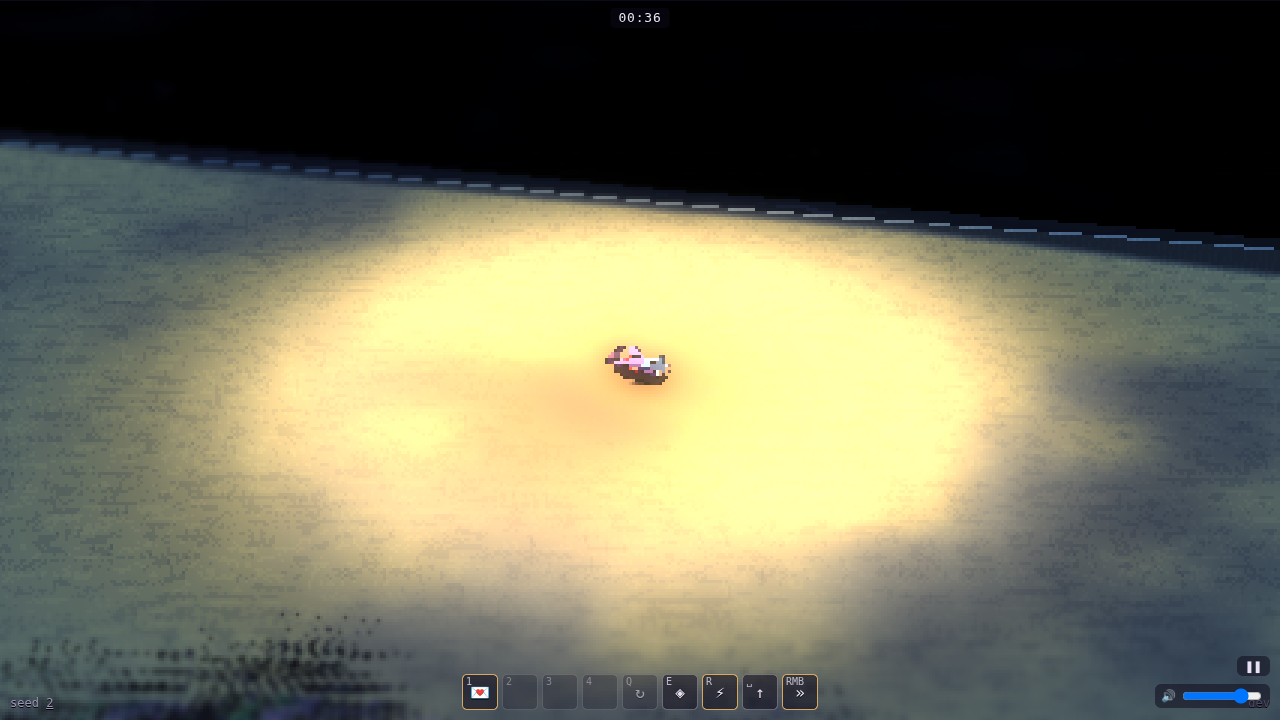
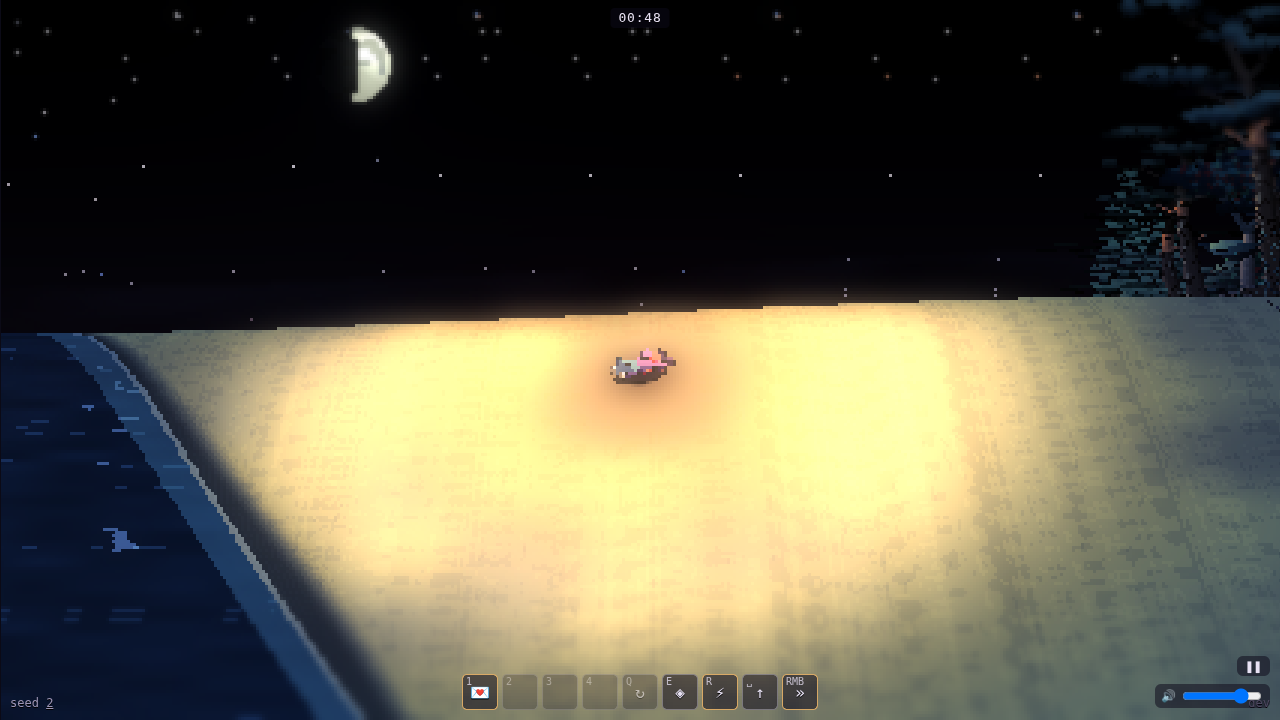
Music plays on through hitches (no more cutting in and out) and a lighter, moonlit sea (Ed's playtest)
The engine re-anchored on every frame past MAX_STEP, leaving a silence at each hitch; it now schedules
0.6 s ahead, eases back into step at most 5% off tempo, holds a sixteenth a long stall made late, and
re-anchors only on a real jump. The damage drop-outs are gone. tools/music-lab/flight.cjs measures it
with real main-thread stalls: 4.02 s unscheduled before, only the 1.2 s stalls' own excess after.

Claude-Session: https://claude.ai/code/session_01VpVux54r6d7xX8jYKXai88

diff --git a/tools/music-lab/dist/witch-music-lab.html b/tools/music-lab/dist/witch-music-lab.html
@@ -776,7 +776,7 @@ label.check input { accent-color: var(--accent); }
     ee: [[270, 1], [2290, 0.45], [3010, 0.35]]
   };
   var METAL_RATIOS = [2, 3, 4.16, 5.43, 6.79, 8.21];
-  var MusicEngine = class {
+  var MusicEngine = class _MusicEngine {
     constructor(ctx2, dest, style2, seed2 = 0, circleDest = dest) {
       this.ctx = ctx2;
       this.style = style2;
@@ -888,6 +888,13 @@ label.check input { accent-color: var(--accent); }
     g0 = NaN;
     a0 = 0;
     rate = 1;
+    /** Continuity, for the checks (tools/music-lab/flight.cjs): times the timeline was re-anchored, sixteenths dropped
+     *  for being late, and audio seconds left with nothing scheduled between one sixteenth and the next. */
+    stats = { resyncs: 0, late: 0, gap: 0 };
+    heardTo = -1;
+    lastNow = -1;
+    /** How much faster or slower than the game the music may run while easing back into step (a share). */
+    static slew = 0.05;
     /** Notes' pitch now (the tape slowing with the music: 1 at full speed). */
     pitch = 1;
     /** The note being played's pitch (the circle's layer never slowed). */
@@ -915,11 +922,12 @@ label.check input { accent-color: var(--accent); }
     }
     /** Each frame: schedule what's due in the next `ahead` seconds of audio time, at game time
      *  `gameTime` (seconds) on the beat clock `clock`. `playing` false: nothing new is scheduled. */
-    update(cue2, gameTime, clock2, playing2, ahead = 0.3, rate = 1, pitch = 1) {
+    update(cue2, gameTime, clock2, playing2, ahead = 0.6, rate = 1, pitch = 1) {
       const now = this.ctx.currentTime, stepNow = beatAt(clock2, gameTime) * 4;
       if (!playing2) {
         this.nextStep = -1;
         this.cNext = -1;
+        this.heardTo = -1;
         return;
       }
       rate = Math.max(0.01, rate);
@@ -931,23 +939,39 @@ label.check input { accent-color: var(--accent); }
         this.rate = rate;
       }
       this.pitch = pitch;
-      const err = gameTime - (this.g0 + (now - this.a0) * rate);
-      if (!(Math.abs(err) < 0.06 * rate)) {
+      const dtA = this.lastNow < 0 ? 0 : Math.max(0, now - this.lastNow);
+      this.lastNow = now;
+      const err = gameTime - (this.g0 + (now - this.a0) * rate), slew = _MusicEngine.slew * Math.min(dtA, 0.05) * rate;
+      if (!Number.isFinite(err) || err > 0.25 * rate) {
+        if (Number.isFinite(this.g0)) this.stats.resyncs++;
         this.g0 = gameTime;
         this.a0 = now;
         this.nextStep = -1;
-      } else this.g0 += err * 0.05;
+      } else if (err < -6 * rate) {
+        this.g0 += err + 6 * rate;
+        this.stats.resyncs++;
+      } else this.g0 += Math.max(-slew, Math.min(slew, err * 0.05));
       const audioAt = (g) => this.a0 + (g - this.g0) / rate;
       if (this.nextStep < 0 || this.nextStep < stepNow - 1 || this.nextStep > stepNow + 64) {
         this.nextStep = Math.ceil(stepNow);
         if (this.lastStep < stepNow + 64 && this.lastStep >= stepNow - 64) this.nextStep = Math.max(this.nextStep, this.lastStep + 1);
       }
       this.delay.delayTime.setTargetAtTime(Math.min(4, this.style.mix.delayBeats * 60 / bpmAt(clock2, gameTime) / rate), now, 0.05);
+      if (this.heardTo >= 0 && this.nextStep >= 0) {
+        const t = audioAt(timeAt(clock2, this.nextStep / 4));
+        if (t < now) {
+          this.a0 += now + 5e-3 - t;
+          this.stats.late++;
+        }
+      }
       for (; ; ) {
-        const g = timeAt(clock2, this.nextStep / 4), t = audioAt(g);
+        const g = timeAt(clock2, this.nextStep / 4), t = this.a0 + (g - this.g0) / rate;
         if (t >= now + ahead) break;
         if (t >= now) {
-          this.step(cue2, this.nextStep, t, 60 / bpmAt(clock2, g) / 4 / rate);
+          const sps2 = 60 / bpmAt(clock2, g) / 4 / rate;
+          if (this.heardTo >= 0 && t > this.heardTo + 0.02) this.stats.gap += t - this.heardTo;
+          this.heardTo = t + sps2;
+          this.step(cue2, this.nextStep, t, sps2);
           this.lastStep = this.nextStep;
         }
         this.nextStep++;
@@ -1408,7 +1432,6 @@ label.check input { accent-color: var(--accent); }
     wet;
     bus;
     noise;
-    dropUntil = 0;
     duckUntil = 0;
     duckBy = 0;
     /** A sleeping legend's clearing (Ed, 2026-10-06): its layer's gain, and how far in she is (eased). */
@@ -1442,15 +1465,18 @@ label.check input { accent-color: var(--accent); }
       const layer = this.circleAt > 0 && this.circleSpecies ? { species: this.circleSpecies, level: 1 } : void 0;
       cue2 = { ...cue2, circle: layer };
       this.circleGain.gain.setTargetAtTime(on ? this.circleAt * this.volume * (M?.circle.level ?? 1) : 0, now, k);
-      if (mix.distort > 0.05 && now > this.dropUntil && Math.random() < mix.distort * 0.01) this.dropUntil = now + 0.08 + Math.random() * 0.3 * mix.distort;
-      const vol = (on && now >= this.dropUntil ? mix.volume * this.volume : 0) * (now < this.duckUntil ? 1 - this.duckBy : 1) * (1 - smooth01((stop - 0.7) / 0.3));
+      const vol = (on ? mix.volume * this.volume : 0) * (now < this.duckUntil ? 1 - this.duckBy : 1) * (1 - smooth01((stop - 0.7) / 0.3));
       this.master.gain.setTargetAtTime(vol, now, k);
       this.filter.frequency.setTargetAtTime(mix.cutoff, now, k);
       this.wet.gain.setTargetAtTime(mix.distort * 0.8, now, k);
       this.dry.gain.setTargetAtTime(1 - mix.distort * 0.6, now, k);
       this.wobble.gain.setTargetAtTime(1 - mix.distort * 0.45 * (0.5 + 0.5 * Math.sin(now * 7.3 + Math.sin(now * 2.1) * 2)), now, 0.02);
       if (on && mix.distort > 0.05 && Math.random() < mix.distort * 0.15) this.crackle(now + Math.random() * 0.05, mix.distort);
-      this.engine?.update(cue2, gameTime, clock2, on, 0.3, rate, stop > 0 ? Math.max(M?.over?.floor ?? 0.15, rate) : tapePitch(rate, M?.slow));
+      this.engine?.update(cue2, gameTime, clock2, on, 0.6, rate, stop > 0 ? Math.max(M?.over?.floor ?? 0.15, rate) : tapePitch(rate, M?.slow));
+    }
+    /** The engine's continuity (tools/music-lab/flight.cjs). */
+    get stats() {
+      return this.engine?.stats ?? { resyncs: 0, late: 0, gap: 0 };
     }
     /** What reaches the speakers (the audio watchdog taps it). */
     get output() {
@@ -1499,8 +1525,8 @@ label.check input { accent-color: var(--accent); }
     mapAreas: 14,
     _mapShape: `The map's shape (Ed, 2026-10-06: "The map as a whole should be circular rather than square, with a buffer zone with no runestones around the edge"). shape circle: the playable areas are those whose centres lie within radius areas of home's (7.9: about 196, as many as the old 14 x 14), and only they get runestones, soundsystems, legends, relics and creatures and wake in waves; past them a buffer ring buffer areas deep (1 to 1.5), forest she can fly over where nothing happens; her flight's edge is a circle, soft over its last push metres (her speed outward easing to nothing at the edge, and a drift of up to drift m/s taking her back in); the forest goes on edge areas past it, into the fog. coast (Ed, 2026-10-06: "The island shouldn't be a totally perfect circle; make the coast slightly irregular"): every edge round home (the playable areas', the buffer's, her flight's) wobbles by the same seeded coast, up to amp of its radius in or out (0 for a perfect circle): harmonics gentle bays and headlands (from two round the island up), plus detail (a share) of finer wobble. shape square: mapAreas x mapAreas as before (?shape=square to compare). ?mapAreas=<n> on the circular map sets the radius for about n x n areas.`,
     map: { shape: "circle", radius: 7.9, buffer: 1.25, push: 80, drift: 6, edge: 2, coast: { amp: 0.08, harmonics: 3, detail: 0.3 } },
-    _beach: `The beach (Ed, 2026-10-06: "Outside of the circular map, there is the sea. A beach surrounds the island, and the calm dark water reflects the sky. You can hear the sound of the waves. If you try and fly past the beach, you land and stargaze (the party lying down pose). Other witches can be found on the beach occasionally; if you land near them, you chat, hold hands, and hug. Try and do this in a way that doesn't cost performance - most games won't ever go to the beach, it's just an Easter egg for adventurers."): sand over the last width metres inside her flight's edge (nothing grows or stands on it), the sea from shore metres past the edge, the hills eased over ease metres down to sand metres high where the sand starts and to sea metres at the water. Flying on out over the sand for restAfter seconds she lands (from the treetops too) and lies down to stargaze; any other way gets her up. witchChance of runs have witches[0] to witches[1] witches together somewhere on the beach; landing within meet metres of them and keeping still for idleAfter seconds, one chats, holds hands, hugs and stargazes with her, turn seconds each. None of it is drawn or heard unless she's within shown metres of the sand, nor the witches stepped beyond simRange. on false: forest to the edge, as before.`,
-    beach: { on: true, width: 60, shore: 0, ease: 260, sand: 1.5, sea: -1, restAfter: 0.8, shown: 450, witchChance: 0.35, witches: [2, 3], meet: 18, idleAfter: 1.2, turn: 7, simRange: 250 },
+    _beach: `The beach (Ed, 2026-10-06: "Outside of the circular map, there is the sea. A beach surrounds the island, and the calm dark water reflects the sky. You can hear the sound of the waves. If you try and fly past the beach, you land and stargaze (the party lying down pose). Other witches can be found on the beach occasionally; if you land near them, you chat, hold hands, and hug. Try and do this in a way that doesn't cost performance - most games won't ever go to the beach, it's just an Easter egg for adventurers."): sand over the last width metres inside her flight's edge (nothing grows or stands on it), the sea from shore metres past the edge, the hills eased over ease metres down to sand metres high where the sand starts and to sea metres at the water. Flying on out over the sand for restAfter seconds she lands (from the treetops too) and lies down to stargaze; any other way gets her up. Lying there (Ed, 2026-10-06: "the bend shader applies so that you can see the sky") the world bends stargazeCurve times the treetops' curve (Ed: "it's stronger than usual, so the sky takes up more of the screen"), eased in and out over about gazeEase seconds, so the night sky opens up over the sea. Lying there with a beach witch (Ed: "If you land near another witch, and you stargaze together, and you wait a few seconds, little hearts will start appearing near you both, floating upwards and disappearing"): after hearts.after seconds a \u2764\uFE0F rises off one or the other every hearts.every[0] to [1] seconds, for hearts.life seconds each, until either gets up; the two stay lying together until she moves. A \u{1F48C} come down on the sand or the sea (Ed: "they last longer and disappear more slowly (5 seconds)") rests letterLinger seconds, fading over the last letterFade, bobbing gently on the water. witchChance of runs (Ed, 2026-10-06: "I think there should always be beach witches, but there are only a handful spread around it": every run) have spots[0] to spots[1] spots spread round the coast (evenly, each nudged by up to a third of the gap), each with witches[0] to witches[1] witches (Ed, 2026-10-06: "Beach witches appear solo": one); landing within meet metres of them and keeping still for idleAfter seconds, one chats, holds hands, hugs and stargazes with her, turn seconds each. None of it is drawn or heard unless she's within shown metres of the sand, nor the witches stepped beyond simRange. on false: forest to the edge, as before.`,
+    beach: { on: true, width: 60, shore: 0, ease: 260, sand: 1.5, sea: -1, restAfter: 0.8, stargazeCurve: 16, gazeEase: 1.5, letterLinger: 5, letterFade: 3, hearts: { after: 4, every: [1, 2], life: 2.4 }, shown: 450, witchChance: 1, spots: [4, 6], witches: [1, 1], meet: 18, idleAfter: 1.2, turn: 7, simRange: 250 },
     areaSize: 28,
     areaScale: 6,
     arena: { radius: 12, band: 70, noise: 0.08, bushes: 0.4, tufts: 0.6, curve: "linear" },

diff --git a/src/platform/audio/musicEngine.ts b/src/platform/audio/musicEngine.ts
@@ -63,6 +63,13 @@ export class MusicEngine {
   private g0 = NaN;
   private a0 = 0;
   private rate = 1;
+  /** Continuity, for the checks (tools/music-lab/flight.cjs): times the timeline was re-anchored, sixteenths dropped
+   *  for being late, and audio seconds left with nothing scheduled between one sixteenth and the next. */
+  readonly stats = { resyncs: 0, late: 0, gap: 0 };
+  private heardTo = -1;
+  private lastNow = -1;
+  /** How much faster or slower than the game the music may run while easing back into step (a share). */
+  static slew = 0.05;
   /** Notes' pitch now (the tape slowing with the music: 1 at full speed). */
   private pitch = 1;
   /** The note being played's pitch (the circle's layer never slowed). */
@@ -127,17 +134,24 @@ export class MusicEngine {
 
   /** Each frame: schedule what's due in the next `ahead` seconds of audio time, at game time
    *  `gameTime` (seconds) on the beat clock `clock`. `playing` false: nothing new is scheduled. */
-  update(cue: MusicCue, gameTime: number, clock: BeatClock, playing: boolean, ahead = 0.3, rate = 1, pitch = 1): void {
+  update(cue: MusicCue, gameTime: number, clock: BeatClock, playing: boolean, ahead = 0.6, rate = 1, pitch = 1): void {
     const now = this.ctx.currentTime, stepNow = beatAt(clock, gameTime) * 4;
-    if (!playing) { this.nextStep = -1; this.cNext = -1; return; }
+    if (!playing) { this.nextStep = -1; this.cNext = -1; this.heardTo = -1; return; }
     // Game time as heard: running on from where it was at the old rate, then at the new one (the
-    // world slowing in a legend's circle); smoothed so the frames' jitter doesn't reach the notes,
-    // and a jump (a hitch, a pause, a jump in game time) starts it afresh.
+    // world slowing in a legend's circle). The music never waits for the game (Ed's playtest, 2026-10-06:
+    // "The music cuts in and out a lot": a frame over the rules' MAX_STEP loses game time, and re-anchoring
+    // on it left a silence at every hitch): it plays on and is eased back into step, never more than
+    // `slew` faster or slower, so the frames' jitter and the hitches never reach the notes. Only a real
+    // jump (game time going back, a pause, a new run, far out of step) starts it afresh.
     rate = Math.max(0.01, rate);
     if (rate !== this.rate) { if (Number.isFinite(this.g0)) { this.g0 += (now - this.a0) * this.rate; this.a0 = now; } this.rate = rate; }
     this.pitch = pitch;
-    const err = gameTime - (this.g0 + (now - this.a0) * rate);
-    if (!(Math.abs(err) < 0.06 * rate)) { this.g0 = gameTime; this.a0 = now; this.nextStep = -1; } else this.g0 += err * 0.05;
+    const dtA = this.lastNow < 0 ? 0 : Math.max(0, now - this.lastNow);
+    this.lastNow = now;
+    const err = gameTime - (this.g0 + (now - this.a0) * rate), slew = MusicEngine.slew * Math.min(dtA, 0.05) * rate; // (a long frame no bigger a nudge than an ordinary one)
+    if (!Number.isFinite(err) || err > 0.25 * rate) { if (Number.isFinite(this.g0)) this.stats.resyncs++; this.g0 = gameTime; this.a0 = now; this.nextStep = -1; }
+    else if (err < -6 * rate) { this.g0 += err + 6 * rate; this.stats.resyncs++; } // (a game running far slower than its audio for long: the music waits, never more than 6 s ahead)
+    else this.g0 += Math.max(-slew, Math.min(slew, err * 0.05));
     const audioAt = (g: number) => this.a0 + (g - this.g0) / rate;
     if (this.nextStep < 0 || this.nextStep < stepNow - 1 || this.nextStep > stepNow + 64) {
       this.nextStep = Math.ceil(stepNow);
@@ -145,10 +159,18 @@ export class MusicEngine {
       if (this.lastStep < stepNow + 64 && this.lastStep >= stepNow - 64) this.nextStep = Math.max(this.nextStep, this.lastStep + 1);
     }
     this.delay.delayTime.setTargetAtTime(Math.min(4, (this.style.mix.delayBeats * 60) / bpmAt(clock, gameTime) / rate), now, 0.05);
+    // A frame longer than what was scheduled ahead: the next sixteenth is already late. Played now rather than
+    // dropped: the music held for the hitch, then on from where it was (the slew takes it back into step).
+    if (this.heardTo >= 0 && this.nextStep >= 0) { const t = audioAt(timeAt(clock, this.nextStep / 4)); if (t < now) { this.a0 += now + 0.005 - t; this.stats.late++; } }
     for (;;) {
-      const g = timeAt(clock, this.nextStep / 4), t = audioAt(g);
+      const g = timeAt(clock, this.nextStep / 4), t = this.a0 + (g - this.g0) / rate;
       if (t >= now + ahead) break;
-      if (t >= now) { this.step(cue, this.nextStep, t, 60 / bpmAt(clock, g) / 4 / rate); this.lastStep = this.nextStep; }
+      if (t >= now) {
+        const sps = 60 / bpmAt(clock, g) / 4 / rate;
+        if (this.heardTo >= 0 && t > this.heardTo + 0.02) this.stats.gap += t - this.heardTo;
+        this.heardTo = t + sps;
+        this.step(cue, this.nextStep, t, sps); this.lastStep = this.nextStep;
+      }
       this.nextStep++;
     }
     // A legend's circle's layer: its own time, at the music's tempo as if never slowed (the circle's

diff --git a/src/platform/audio/music.ts b/src/platform/audio/music.ts
@@ -1,6 +1,6 @@
 // The music (Ed, 2026-10-04): one shared track, played through the proximity mix from
 // rules/music.ts: a master gain, a low-pass filter that muffles it in the deep forest, and damage
-// (a waveshaper's crunch, a wobbling tremolo, crackle and drop-outs). The track is generative
+// (a waveshaper's crunch, a wobbling tremolo, and crackle). The track is generative
 // (platform/musicEngine.ts, from config/music-style.json), its sections following the waves
 // (rules/musicPlan.ts), on the game's beat; a recorded track (music.src) can stand in for it.
 import { muffled, type MusicMix } from "../../rules/music";
@@ -26,7 +26,6 @@ export class Music {
   private wet: GainNode;
   private bus: GainNode;
   private noise: AudioBuffer;
-  private dropUntil = 0;
   private duckUntil = 0;
   private duckBy = 0;
   /** A sleeping legend's clearing (Ed, 2026-10-06): its layer's gain, and how far in she is (eased). */
@@ -82,9 +81,9 @@ export class Music {
     const layer = this.circleAt > 0 && this.circleSpecies ? { species: this.circleSpecies, level: 1 } : undefined; // (its level is the layer's gain, not its notes')
     cue = { ...cue, circle: layer };
     this.circleGain.gain.setTargetAtTime(on ? this.circleAt * this.volume * (M?.circle.level ?? 1) : 0, now, k);
-    // Drop-outs: with damage close by, now and then the sound cuts for a moment.
-    if (mix.distort > 0.05 && now > this.dropUntil && Math.random() < mix.distort * 0.01) this.dropUntil = now + 0.08 + Math.random() * 0.3 * mix.distort;
-    const vol = (on && now >= this.dropUntil ? mix.volume * this.volume : 0) * (now < this.duckUntil ? 1 - this.duckBy : 1) * (1 - smooth01((stop - 0.7) / 0.3));
+    // (No drop-outs any more, the sound cutting for a moment with damage close by: Ed's playtest, 2026-10-06, "The music
+    // cuts in and out a lot ... It should play continuously". The damage is heard as the crunch, the wobble and the crackle.)
+    const vol = (on ? mix.volume * this.volume : 0) * (now < this.duckUntil ? 1 - this.duckBy : 1) * (1 - smooth01((stop - 0.7) / 0.3));
     this.master.gain.setTargetAtTime(vol, now, k);
     this.filter.frequency.setTargetAtTime(mix.cutoff, now, k);
     this.wet.gain.setTargetAtTime(mix.distort * 0.8, now, k);
@@ -93,8 +92,11 @@ export class Music {
     this.wobble.gain.setTargetAtTime(1 - mix.distort * 0.45 * (0.5 + 0.5 * Math.sin(now * 7.3 + Math.sin(now * 2.1) * 2)), now, 0.02);
     // Crackle: little bursts of noise.
     if (on && mix.distort > 0.05 && Math.random() < mix.distort * 0.15) this.crackle(now + Math.random() * 0.05, mix.distort);
-    this.engine?.update(cue, gameTime, clock, on, 0.3, rate, stop > 0 ? Math.max(M?.over?.floor ?? 0.15, rate) : tapePitch(rate, M?.slow)); // (stopping: the pitch falls all the way with it)
+    this.engine?.update(cue, gameTime, clock, on, 0.6, rate, stop > 0 ? Math.max(M?.over?.floor ?? 0.15, rate) : tapePitch(rate, M?.slow)); // (stopping: the pitch falls all the way with it)
   }
+
+  /** The engine's continuity (tools/music-lab/flight.cjs). */
+  get stats() { return this.engine?.stats ?? { resyncs: 0, late: 0, gap: 0 }; }
 
   /** What reaches the speakers (the audio watchdog taps it). */
   get output(): AudioNode { return this.master; }

diff --git a/src/render/ground.ts b/src/render/ground.ts
@@ -119,12 +119,14 @@ void main() {
       float front = shore - 1.0 - 4.0 * lap;
       vec3 col;
       if (bd > front + uPixel * 1.5) {
-        // The sea: dark and calm, the night sky mirrored in it (its gradient, its stars, the moon's road), rippling.
+        // The sea: calm, a moonlit deep blue-teal (Ed's playtest, 2026-10-06: "The sea is too dark"), the night sky mirrored
+        // in it (its glow low down, its stars, the moon's road), rippling, swells catching the light.
         vec3 V = normalize(cameraPosition - vec3(p.x, vWorld.y, p.y));
         vec2 rip = vec2(vnoise(p * vec2(0.3, 1.1) + vec2(uTime * 0.35, 0.0)), vnoise(p * vec2(0.22, 0.8) + vec2(0.0, uTime * 0.27) + 19.0)) - 0.5;
         vec3 R = reflect(-V, normalize(vec3(rip.x * 0.035, 1.0, rip.y * 0.08)));
         float up = clamp(R.y, 0.0, 1.0);
-        col = mix(uHazeColour * 0.5, vec3(0.004, 0.006, 0.016), smoothstep(0.0, 0.3, up)) + vec3(0.004, 0.008, 0.014); // (calm: the sky's dark top over most of it, its glow low down)
+        col = mix(uHazeColour * 0.9 + vec3(0.1, 0.17, 0.22), vec3(0.09, 0.18, 0.26), smoothstep(0.0, 0.3, up)); // (the sky's glow low down, the deep blue-teal over most of it)
+        col *= 0.9 + 0.25 * (rip.x + 0.5); // (its ripples, lighter and darker)
         vec2 sc = floor(R.xz / max(0.08, R.y) * 26.0);
         float hs = fract(sin(dot(sc, vec2(12.9898, 78.233))) * 43758.5453);
         if (hs > 0.9965) col += vec3(0.42, 0.46, 0.56) * (0.55 + 0.45 * sin(uTime * 2.3 + hs * 90.0)); // a star
@@ -132,8 +134,8 @@ void main() {
         float spec = dot(R, moon);
         if (spec > 0.993) col = mix(col, uMoon + vec3(0.25), 0.8);
         else if (spec > 0.975) col = mix(col, uMoon * 0.7, 0.3);
-        else if (mod(px.y, 6.0) < 1.0 && vnoise(px / vec2(9.0, 2.0) + vec2(uTime * 0.3, 0.0)) > 0.8) col += vec3(0.02, 0.026, 0.04); // a swell catching the light
-        if (bd < front + 1.0 + lap) col = mix(col, vec3(0.55, 0.6, 0.66), 0.25); // the shallows over the sand
+        else if (mod(px.y, 6.0) < 1.0 && vnoise(px / vec2(9.0, 2.0) + vec2(uTime * 0.3, 0.0)) > 0.75) col += vec3(0.09, 0.13, 0.15); // a swell catching the light
+        if (bd < front + 1.0 + lap) col = mix(col, vec3(0.42, 0.66, 0.7), 0.4); // the shallows over the sand
         gl_FragColor = vec4(haze(col, vWorld), 1.0);
         return;
       }

diff --git a/src/platform/audio/musicEngine.test.ts b/src/platform/audio/musicEngine.test.ts
@@ -57,6 +57,38 @@ describe("the music engine's scheduler", () => {
   });
 });
 
+describe("the music plays on through the frames' hitches (Ed's playtest, 2026-10-06: \"The music cuts in and out a lot\")", () => {
+  const cue: MusicCue = { waves: [], nextAt: Infinity, bootUntil: 0, knockedOut: false, siege: 0 };
+  /** `seconds` of audio at 60 frames a second, a frame of `hitch` seconds every `every` s, the game clock losing what passes
+   *  the rules' MAX_STEP (0.1 s) as it does; the engine's continuity, and how far out of step it ends (s). */
+  function fly(seconds: number, hitch: number, every: number) {
+    const ctx = fakeContext(), e = new MusicEngine(ctx, (ctx as unknown as { destination: AudioNode }).destination, style, 7), clock = newBeatClock(style.bpm);
+    let game = 0;
+    for (let f = 0; f < seconds * 60; f++) {
+      const dt = f > 0 && f % (every * 60) === 0 ? hitch : 1 / 60;
+      ctx.currentTime += dt; game += Math.min(dt, 0.1);
+      e.update(cue, game, clock, true);
+    }
+    const E = e as unknown as { g0: number; a0: number; rate: number };
+    return { ...e.stats, behind: E.g0 + (ctx.currentTime - E.a0) * E.rate - game };
+  }
+
+  it("a hitch shorter than what's scheduled ahead leaves no gap, and the music eases back into step", () => {
+    for (const hitch of [0.15, 0.3, 0.5]) {
+      const s = fly(40, hitch, 8);
+      expect(s.gap, `${hitch} s hitches`).toBeLessThan(0.01);
+      expect(s.resyncs).toBe(0);
+      expect(Math.abs(s.behind), `${hitch} s hitches: back in step`).toBeLessThan(0.1);
+    }
+  });
+
+  it("a longer stall only holds the music for the stall, then it plays on from where it was", () => {
+    const s = fly(40, 1.2, 15);
+    expect(s.gap).toBeLessThan(2 * (1.2 - 0.6) + 0.05); // (two stalls, each past the 0.6 s scheduled ahead)
+    expect(s.resyncs).toBe(0);
+  });
+});
+
 describe("a sleeping legend's clearing in the music (Ed, 2026-10-06)", () => {
   it("eases the muffle and the legend's layer in over about a second as she enters, and out as she leaves", () => {
     const ctx = fakeContext(), M = TUNING.music, m = new Music(ctx, 0.4, style, 7), clock = newBeatClock(style.bpm), mix = mixAt(M, 1, 0, 10);

diff --git a/CLAUDE.md b/CLAUDE.md
@@ -52,7 +52,7 @@ The balance simulator (`src/rules/balance.ts`, run by `node tools/balance/sim.mj
 
 The sound effects (`src/platform/audio/sfx.ts`, made in its neighbours `babble.ts`, `whale.ts`, `chimes.ts`, `ambience.ts`, `places.ts` (a pond, a picnic in a partified area, the creator's room) and `power.ts` (a runestone crackling into life as a speaker or soundsystem) on `sfxKit.ts`, cued by `src/platform/audio/sfxCues.ts`, knobs in the tuning's `sfx`): every one synthesised in the music's key; `node tools/sfx/check.mjs` renders each offline in headless Chromium, failing on a script error, silence, NaN or clipping, and writes them to `previews/sfx/*.wav` to listen to. Run it before every push that touches them. The mix: `node tools/sfx/mix.mjs [name]` renders three scenes as the game mixes them (home: the meadow, 💌s, invites, a relic; a fight by a soundsystem: a crowd turning and speaking, ouch, knocked back and down, a soundsystem lost; the deep forest, the music far off: a sleeping legend's moans, a wind-up, a charge), the music and each sound alone and together, and prints each sound's short-term loudness over the music under it; it writes the scenes to `previews/sfx/mix/` (WAVs not committed). Run it before any change to a volume. The whole run: `node tools/sfx/run.mjs [name] [--clips]` renders ten minutes of a scripted playthrough (the boot at home, a pond, an angry legend, three waves, a partified area, sieges, a soundsystem lost, a knockout) with the music's arc driven as the game drives it, and prints its loudness minute by minute, the music's sections and passes, and how much of the music repeats itself (4 s stretches within 1 dB of an earlier one), failing on a script error, NaN, clipping or a silent second; `--clips` cuts 30 s mp3s (boot, legend, siege, wave 3) into `previews/sfx/run/` (the WAV not committed); about 10 minutes to run. Run it before a change to the music's arc or the mix's levels. Its targets (round 11's mix pass), in dB over the music: stings 0 to +4, telegraphs +3 to +6, her cries −2 to +4, 💌 chimes −2 to +1, voices −5 to 0, state turns −4 to +4, a charge −4 to −3, a stun's twinkles about −10, ambience −12 to −5.
 
-The music (`src/rules/musicPlan.ts`, `src/rules/musicScore.ts`, `src/platform/audio/musicEngine.ts`, `config/music-style.json`): A sleeping legend's clearing on the ground (Ed, 2026-10-06) muffles the music (`muffled`, rules/music.ts; the tuning's `music.circle`) under that legend's own layer (`legendCircleAt`, rules/musicPlan.ts; the style's `circle`: every legend's parts and its voice family's, each species its own patterns, melody, rhythm and octave in the music's key and chords, played over the muffle on the engine's second output); There the world slows to about a tenth (the game's time scale, `g.timeScale`) and the music follows it (Ed, 2026-10-06: "the music audibly slows down"): the engine runs on game time at the time scale's rate, so the bars and the waves stay in step, its notes' pitch dropping like a slowing tape (`tapePitch`, the tuning's `music.slow`), while the legend's layer plays on its own clock at full speed, starting in step with the music and taking its chords (`only`/`circleStep` in `notesAt`): slow, spacious four-bar phrases. `node tools/music-lab/circles.mjs [species,...]` renders each walking in, the slowing and the way out (`SLOW=0` without the slowing) and writes `previews/music/circles/<species>.mp3`. The home speakers' boot (Ed, 2026-10-06) builds it: silent until the first speaker turns (`g.speakerBoot`), then the intro's twelve layers (its parts' `from`) one a speaker, each on the bar line after it turns (`bootLayers`, rules/musicPlan.ts), the low-pass opening with them; `node tools/music-lab/boot.mjs [bars]` renders the boot sped up to `previews/music/boot-build.mp3`. `node tools/music-lab/build.mjs` writes the self-contained Music Lab to `tools/music-lab/dist/witch-music-lab.html` (the one to publish; commit it rebuilt with any music change).
+The music (`src/rules/musicPlan.ts`, `src/rules/musicScore.ts`, `src/platform/audio/musicEngine.ts`, `config/music-style.json`): A sleeping legend's clearing on the ground (Ed, 2026-10-06) muffles the music (`muffled`, rules/music.ts; the tuning's `music.circle`) under that legend's own layer (`legendCircleAt`, rules/musicPlan.ts; the style's `circle`: every legend's parts and its voice family's, each species its own patterns, melody, rhythm and octave in the music's key and chords, played over the muffle on the engine's second output); There the world slows to about a tenth (the game's time scale, `g.timeScale`) and the music follows it (Ed, 2026-10-06: "the music audibly slows down"): the engine runs on game time at the time scale's rate, so the bars and the waves stay in step, its notes' pitch dropping like a slowing tape (`tapePitch`, the tuning's `music.slow`), while the legend's layer plays on its own clock at full speed, starting in step with the music and taking its chords (`only`/`circleStep` in `notesAt`): slow, spacious four-bar phrases. `node tools/music-lab/circles.mjs [species,...]` renders each walking in, the slowing and the way out (`SLOW=0` without the slowing) and writes `previews/music/circles/<species>.mp3`. The home speakers' boot (Ed, 2026-10-06) builds it: silent until the first speaker turns (`g.speakerBoot`), then the intro's twelve layers (its parts' `from`) one a speaker, each on the bar line after it turns (`bootLayers`, rules/musicPlan.ts), the low-pass opening with them; `node tools/music-lab/boot.mjs [bars]` renders the boot sped up to `previews/music/boot-build.mp3`. The music never waits for the game (Ed's playtest, 2026-10-06: "The music cuts in and out a lot"): a frame past the rules' `MAX_STEP` (0.1 s) loses game time, and the engine used to re-anchor on it and leave a silence at every hitch; now it schedules 0.6 s ahead, plays on through a hitch and eases back into step at most 5% faster or slower (`MusicEngine.slew`), holding (not dropping) a sixteenth a long stall made late, and re-anchors only on a real jump (`musicEngine.stats` counts re-anchorings, held sixteenths and unscheduled seconds); the damage drop-outs are gone (its crunch, wobble and crackle stay). `node tools/music-lab/flight.cjs [dist] [seconds]` drives the built game's music on the real AudioContext at 60 frames a second with real main-thread stalls (0.15 to 1.2 s), failing on gaps. `node tools/music-lab/build.mjs` writes the self-contained Music Lab to `tools/music-lab/dist/witch-music-lab.html` (the one to publish; commit it rebuilt with any music change).
 
 Related commands: `node tools/art-lab/build.mjs` writes the self-contained lab page to `tools/art-lab/dist/witch-art-lab.html` (the one to publish); `node art/export.mjs [style.json] [out dir]` exports every asset as albedo and normal-map PNGs with `manifest.json` (default `art/out/`, not committed); `node art/preview.mjs animals|trees|wind|treeheights|areas|sets|lights|soundsystems|sigils|witch|home|relics|grounds|decor|country|landmarks|scenes|partyobjects|partypatch|lineup|lake|paths|pathpieces|species|canopy|speakers|ring|disco|discostrip|discolooks|tufts|sway|partywitches|legends|effects|genome|silhouettes|partyrelics|witchgen|faces|textures <list> <png> [scale]` renders lit preview sheets. They need Playwright's Chromium (in cloud sessions, under `/opt/pw-browsers`).
 
@@ -98,7 +98,7 @@ Literal, stable names for the parts of the game, as Ed and the builders agree th
 - **Prop generator**: props built from a genome and a seed, like the plants (`art/props/`, #119): `PROP_GENOMES` (`genomes.js`) gives each kind its ranges, choices and colours in metres; `propPiece(kind, { seed, ... })` (`generator.js`) builds a variant in 3D at the witch's scale. Kinds: `standingStone` (a plain grey slab, leaning, its top slanted, rounded, notched or broken), `cairn` (a low heap of irregular grey stones, a leaning slab), `pool` (an irregular shore, a mud or moss rim, reeds, cattails, stones; bog water too) `brokenTrunk` (its snapped branch growing out of it, rising, level or hanging, never laid beside it), `fallenLog` (bowed, mossed along its top, its ends broken to splinters or sawn to rings), `mushroomRing` (toadstools round a ring of darker grass, an arc or a clump) `stoneCircle` (small standing stones round trodden grass, one or two fallen), `boulder` (a few merged lumps, half sunk, cracked, mossy on top, grey, granite or sandstone) and `mound` (moss or bare earth in the floor's own tones, lumpy, tufted). A pool's shore, a mushroom ring's grass and a stone circle's floor take the area's ground colours (`groundColours`, `art/ground.js`). On by default (DECISION FOR ED; `?props=hand` turns it off, `style.propGen`), it stands in for the areas' standing stones, cairns, pools (`water`), stumps, logs, fungi, henges, boulders and mounds (`propFor`), three shapes of each. `node art/preview.mjs props all <png>` and `areaprops moor,muddy-forest <png>` draw them; `node tools/props/ingame.cjs <area> <dir> "props=gen"` shoots them in play. Bridges too (`art/props/bridges.js`, `BRIDGE_GENOMES`): under `?props=gen` the art build bakes 3 variants of each path crossing (footbridge, rope bridge, root bridge) as `<id>~<k>`, and the view picks one by the crossing's place; and fingerposts (`fingerpost~<k>`: an old post, 1 to 4 blank arms, a cap or ball) by each footpath where it comes into a clearing (`paths.fingerposts`, which `?props=gen` turns on; placed after every other piece); `node art/preview.mjs pathpieces footbridge~0,footbridge~1 <png>` draws them.
 - **Set-piece generator**: small set pieces from genomes (`art/props/sets.js`, `SET_PROP_GENOMES`; art builder 1's ask on #119): `punt` (sunk at a slant in a reedy pool, whole, broken or swamped, a pole in the mud), `jetty` (planks on posts out over a pool, some missing, ending in a post, a ladder, a lantern or a boat tied up), `ring` (stones, posts or stumps round trodden grass, a fire pit, stone, stump or slab in the middle) and `heap` (stones, logs, brushwood or rubble, mossed over); 6 to 12 m, its ground and water from the area's own (`groundColours`). An area recipe names one as its `setPiece` (`["jetty", text, size, { seed, ...numbers }]`; `setPiece3d` seeds it by the area's id otherwise). `node art/preview.mjs setgen all <png>` (PER, AREA) draws them.
 - **Area recipe**: an area type written as one object of data (`art/recipes/`, listed in `art/recipes.js` `AREA_RECIPES`, which says what each field is): the area's own fields, its flags (`ponds`, `wet`, `steep`, `pathKinds`, `sharesCreature`), layout, flora, set piece, settings and ground genome, folded by `art/areas.js` into the tables as if written there. Its creature is a species defined as data (a genome record on an existing builder in `art/genome/species.js`, and its entries in `art/sigils.js`, `art/legends.js`, `config/movement.json`, `config/legend-buffs.json` and `config/creature-voices.json`). Ed's rule is a creature of its own for every area; a recipe with `sharesCreature` may break it. The first is the fen (the newt); the second the heronry (the heron, on art builder 2's heron builder).
-- **Beach**: the sand round the circular map and the sea past it (Ed, 2026-10-06: an Easter egg for adventurers; the tuning's `beach`, `beachOf` in `rules/mapShape.ts`): the last `width` metres inside her flight's edge are sand (nothing grows, stands or runs there; paths stop short), the sea from `shore` metres past the edge, dark and calm, mirroring the sky's gradient, stars and the moon (the ground shader, behind its `uBeach` uniform), and the waves heard near it (`Sea`, `platform/audio/places.ts`; the tuning's `sfx.waves`). Flying on out against the edge she lands and lies down to **stargaze** (`witch.stargazing`); any other way gets her up. **Beach witches** lie about together on the sand in every run (Ed, 2026-10-06: "always ... only a handful spread around it"; `rules/beach.ts`, `g.beach`): `spots` (4 to 6) spread round the coast, evenly but for a seeded jitter, each a witch alone (`witches` [1, 1]; Ed: "Beach witches appear solo") and stepped only within `simRange` of her; landing by one and keeping still, she comes over to chat, hold hands, hug and stargaze with her. None of it is made, drawn, heard or stepped unless she's near (`render/beach.ts`); `node tools/beach/check.cjs [dist] [--shots]` times an ordinary run (compare an old build's dist) and screenshots it into `previews/beach-*.png`.
+- **Beach**: the sand round the circular map and the sea past it (Ed, 2026-10-06: an Easter egg for adventurers; the tuning's `beach`, `beachOf` in `rules/mapShape.ts`): the last `width` metres inside her flight's edge are sand (nothing grows, stands or runs there; paths stop short), the sea from `shore` metres past the edge, a calm moonlit blue-teal (Ed's playtest, 2026-10-06: "The sea is too dark"), mirroring the sky's gradient, stars and the moon (the ground shader, behind its `uBeach` uniform), and the waves heard near it (`Sea`, `platform/audio/places.ts`; the tuning's `sfx.waves`). Flying on out against the edge she lands and lies down to **stargaze** (`witch.stargazing`); any other way gets her up. **Beach witches** lie about together on the sand in every run (Ed, 2026-10-06: "always ... only a handful spread around it"; `rules/beach.ts`, `g.beach`): `spots` (4 to 6) spread round the coast, evenly but for a seeded jitter, each a witch alone (`witches` [1, 1]; Ed: "Beach witches appear solo") and stepped only within `simRange` of her; landing by one and keeping still, she comes over to chat, hold hands, hug and stargaze with her. None of it is made, drawn, heard or stepped unless she's near (`render/beach.ts`); `node tools/beach/check.cjs [dist] [--shots]` times an ordinary run (compare an old build's dist) and screenshots it into `previews/beach-*.png`.
 - **Remoteness**: how far an area is from home, 0 at the dancefloor's area to 1 at the map's edge; creatures grow more numerous and older with it.
 - **Tilt-shift**: the post-process blur toward the top and bottom of the screen that makes the forest look like a miniature.
 - **Tuning file**: `config/tuning.json`, the numbers Ed edits (speeds, camera, density, glow, pixel size, creatures, bloom, tilt-shift). Its schema is `config/schema/tuning.schema.json` (every knob's type and range; `src/rules/schema.ts` checks it, `src/rules/tuningSchema.test.ts` fails on an unknown, missing, mistyped or out-of-range knob) and its reference, generated from the schema and the file's `_` notes, is `config/KNOBS.md`. After adding or renaming a knob, or editing a `_` note: `node tools/config/schema.mjs --add --docs` (string choices and name-keyed records go in `TUNING_OVER`, `src/rules/tuningSchema.ts`). Changing a value needs nothing (the reference lists no values). The other configs I check the same way (`combat.json`, `movement.json`, `travel.json`, `area-types.json`, `legend-buffs.json`: `src/rules/configSchemas.ts` lists each, its records keyed by name and its string choices; `src/rules/configs.test.ts` checks each against `config/schema/<name>.schema.json` and that the species, attacks, area types and buff kinds they name are real). After adding a field to one: `node tools/config/schema.mjs --add` (or `--init` to re-infer every schema).
